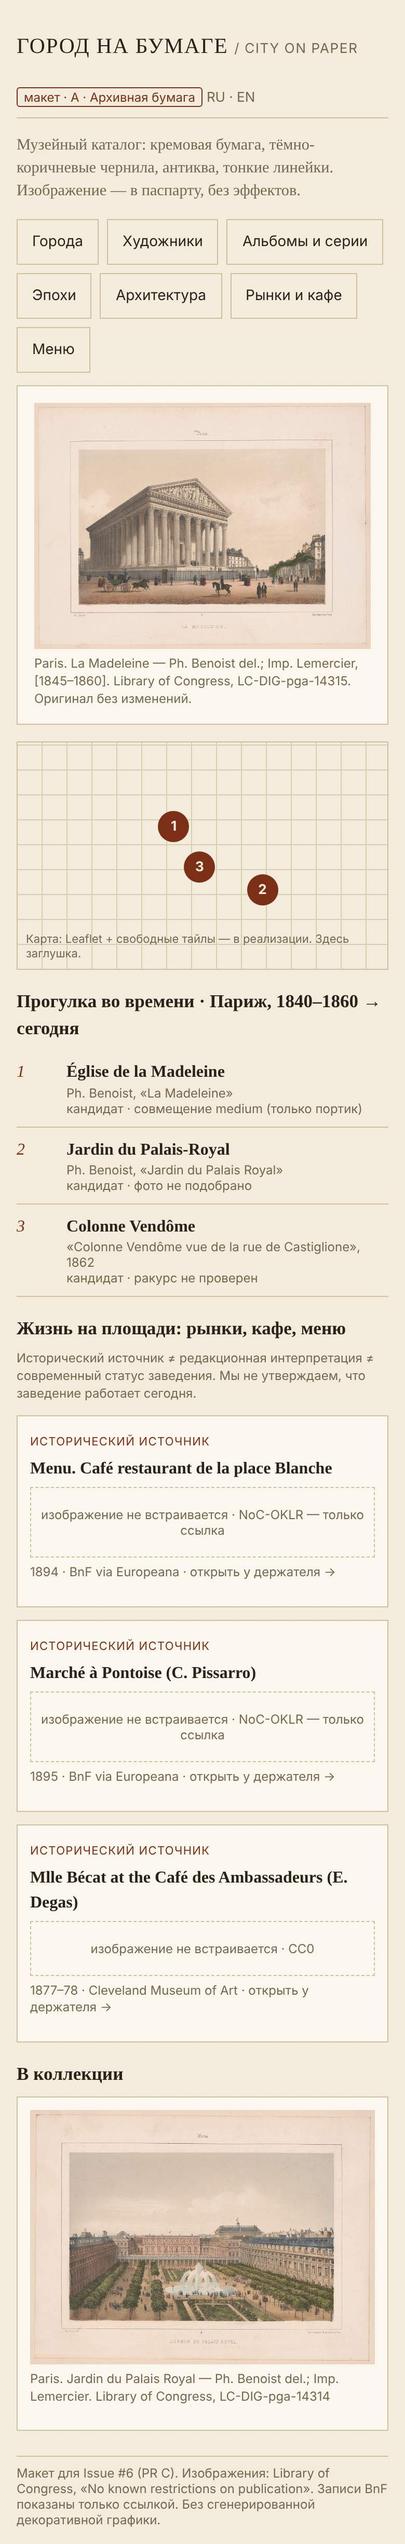
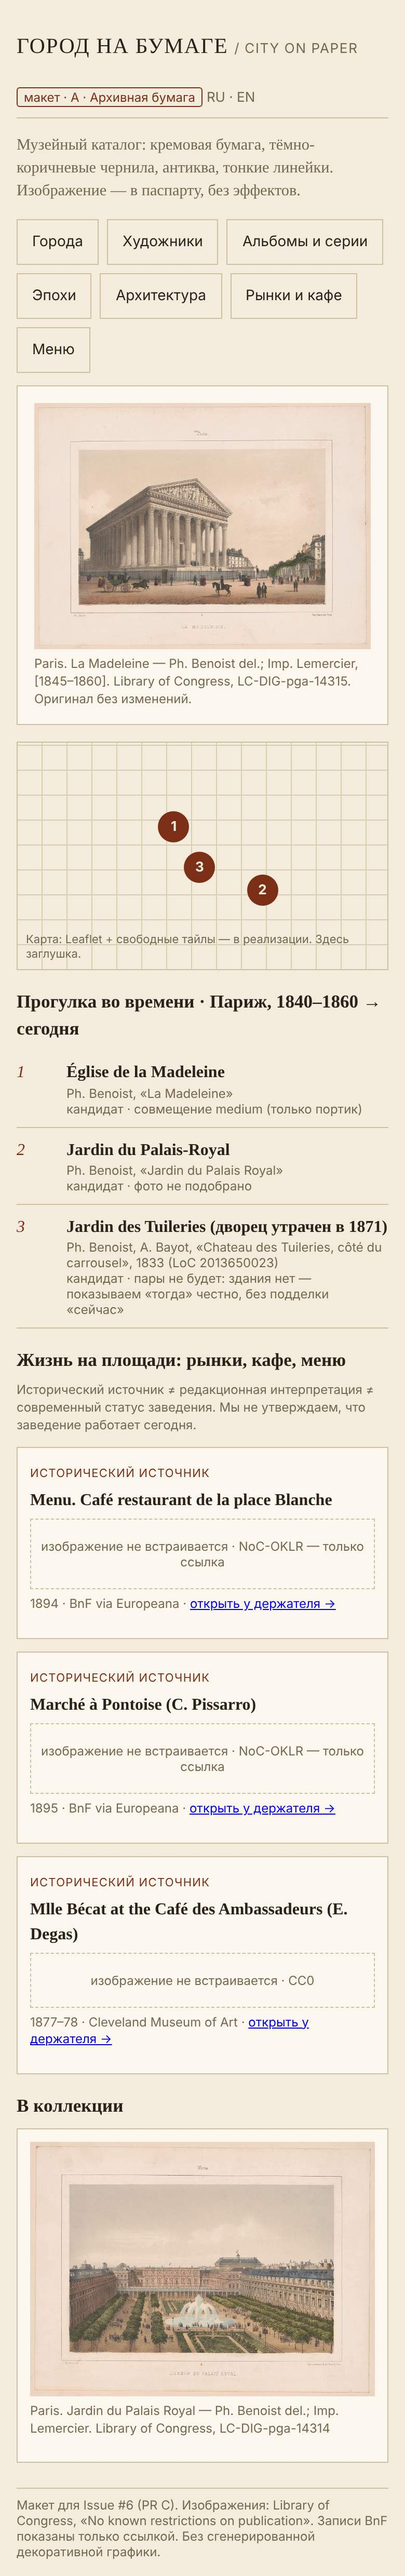
Fix review findings in mockups: replace unsourced walk stop, real holder links, facet group role
- stop 3 now uses LoC 2013650023 (Ph. Benoist & A. Bayot, Tuileries,
  1833) and states that no "now" pair is possible (palace lost 1871)
- food cards link to the holding institution records
- role="list" without listitems -> role="group" with a label

Claude-Session: https://claude.ai/code/session_01LdHt8Et5Uy4nRGp7UuZQir

diff --git a/docs/ux/mockups/a-archive.html b/docs/ux/mockups/a-archive.html
@@ -37,15 +37,15 @@ h1{font-weight:normal;letter-spacing:.04em;text-transform:uppercase;font-size:1.
 </style></head><body><div class="wrap">
 <header><h1>Город на бумаге <span class="lang">/ City on Paper</span></h1><span><span class="mock">макет · A · Архивная бумага</span> <span class="lang">RU · EN</span></span></header>
 <p class="pitch">Музейный каталог: кремовая бумага, тёмно-коричневые чернила, антиква, тонкие линейки. Изображение — в паспарту, без эффектов.</p>
-<div class="chips" role="list"><button class="chip">Города</button><button class="chip">Художники</button><button class="chip">Альбомы и серии</button><button class="chip">Эпохи</button><button class="chip">Архитектура</button><button class="chip">Рынки и кафе</button><button class="chip">Меню</button></div>
+<div class="chips" role="group" aria-label="Фасеты"><button class="chip">Города</button><button class="chip">Художники</button><button class="chip">Альбомы и серии</button><button class="chip">Эпохи</button><button class="chip">Архитектура</button><button class="chip">Рынки и кафе</button><button class="chip">Меню</button></div>
 <div class="layout">
  <section class="hero"><figure><img src="assets/loc-pga14315v.jpg" alt="Hand-coloured lithograph of the Madeleine church in Paris seen from the south-west, with carriages"><figcaption>Paris. La Madeleine — Ph. Benoist del.; Imp. Lemercier, [1845–1860]. Library of Congress, LC-DIG-pga-14315. Оригинал без изменений.</figcaption></figure></section>
  <section class="map" aria-label="Схема карты (заглушка, без тайлов)">
   <span class="pin" style="left:38%;top:30%">1</span><span class="pin" style="left:62%;top:58%">2</span><span class="pin" style="left:45%;top:48%">3</span>
   <span class="note">Карта: Leaflet + свободные тайлы — в реализации. Здесь заглушка.</span></section>
 </div>
-<h2>Прогулка во времени · Париж, 1840–1860 → сегодня</h2><div class="stop"><span class="n">1</span><div><strong>Église de la Madeleine</strong><small>Ph. Benoist, «La Madeleine»</small><small>кандидат · совмещение medium (только портик)</small></div></div><div class="stop"><span class="n">2</span><div><strong>Jardin du Palais-Royal</strong><small>Ph. Benoist, «Jardin du Palais Royal»</small><small>кандидат · фото не подобрано</small></div></div><div class="stop"><span class="n">3</span><div><strong>Colonne Vendôme</strong><small>«Colonne Vendôme vue de la rue de Castiglione», 1862</small><small>кандидат · ракурс не проверен</small></div></div>
-<section class="food"><h2>Жизнь на площади: рынки, кафе, меню</h2><p class="credit">Исторический источник ≠ редакционная интерпретация ≠ современный статус заведения. Мы не утверждаем, что заведение работает сегодня.</p><div class="grid"><article class="card"><span class="tag">исторический источник</span><h3 style="font-size:1rem;margin:4px 0">Menu. Café restaurant de la place Blanche</h3><div class="nolink">изображение не встраивается · NoC-OKLR — только ссылка</div><p class="credit">1894 · BnF via Europeana · открыть у держателя →</p></article><article class="card"><span class="tag">исторический источник</span><h3 style="font-size:1rem;margin:4px 0">Marché à Pontoise (C. Pissarro)</h3><div class="nolink">изображение не встраивается · NoC-OKLR — только ссылка</div><p class="credit">1895 · BnF via Europeana · открыть у держателя →</p></article><article class="card"><span class="tag">исторический источник</span><h3 style="font-size:1rem;margin:4px 0">Mlle Bécat at the Café des Ambassadeurs (E. Degas)</h3><div class="nolink">изображение не встраивается · CC0</div><p class="credit">1877–78 · Cleveland Museum of Art · открыть у держателя →</p></article></div></section>
+<h2>Прогулка во времени · Париж, 1840–1860 → сегодня</h2><div class="stop"><span class="n">1</span><div><strong>Église de la Madeleine</strong><small>Ph. Benoist, «La Madeleine»</small><small>кандидат · совмещение medium (только портик)</small></div></div><div class="stop"><span class="n">2</span><div><strong>Jardin du Palais-Royal</strong><small>Ph. Benoist, «Jardin du Palais Royal»</small><small>кандидат · фото не подобрано</small></div></div><div class="stop"><span class="n">3</span><div><strong>Jardin des Tuileries (дворец утрачен в 1871)</strong><small>Ph. Benoist, A. Bayot, «Chateau des Tuileries, côté du carrousel», 1833 (LoC 2013650023)</small><small>кандидат · пары не будет: здания нет — показываем «тогда» честно, без подделки «сейчас»</small></div></div>
+<section class="food"><h2>Жизнь на площади: рынки, кафе, меню</h2><p class="credit">Исторический источник ≠ редакционная интерпретация ≠ современный статус заведения. Мы не утверждаем, что заведение работает сегодня.</p><div class="grid"><article class="card"><span class="tag">исторический источник</span><h3 style="font-size:1rem;margin:4px 0">Menu. Café restaurant de la place Blanche</h3><div class="nolink">изображение не встраивается · NoC-OKLR — только ссылка</div><p class="credit">1894 · BnF via Europeana · <a href="https://www.europeana.eu/item/9200518/ark__12148_btv1b10524412v" rel="noopener">открыть у держателя →</a></p></article><article class="card"><span class="tag">исторический источник</span><h3 style="font-size:1rem;margin:4px 0">Marché à Pontoise (C. Pissarro)</h3><div class="nolink">изображение не встраивается · NoC-OKLR — только ссылка</div><p class="credit">1895 · BnF via Europeana · <a href="https://www.europeana.eu/item/9200518/ark__12148_btv1b69552845" rel="noopener">открыть у держателя →</a></p></article><article class="card"><span class="tag">исторический источник</span><h3 style="font-size:1rem;margin:4px 0">Mlle Bécat at the Café des Ambassadeurs (E. Degas)</h3><div class="nolink">изображение не встраивается · CC0</div><p class="credit">1877–78 · Cleveland Museum of Art · <a href="https://www.clevelandart.org/art/2007.194" rel="noopener">открыть у держателя →</a></p></article></div></section>
 <h2>В коллекции</h2><div class="grid"><article class="card"><img src="assets/loc-pga14314v.jpg" alt="Lithograph of the Palais-Royal garden with strolling figures and arcades"><p class="credit">Paris. Jardin du Palais Royal — Ph. Benoist del.; Imp. Lemercier. Library of Congress, LC-DIG-pga-14314</p></article></div>
 <footer>Макет для Issue #6 (PR C). Изображения: Library of Congress, «No known restrictions on publication». Записи BnF показаны только ссылкой. Без сгенерированной декоративной графики.</footer>
 </div></body></html>

diff --git a/docs/ux/mockups/c-journal.html b/docs/ux/mockups/c-journal.html
@@ -37,14 +37,14 @@ h1{font-size:2rem;line-height:1.1;font-style:italic}
 </style></head><body><div class="wrap">
 <header><h1>Город на бумаге <span class="lang">/ City on Paper</span></h1><span><span class="mock">макет · C · Путевой дневник и кухня</span> <span class="lang">RU · EN</span></span></header>
 <p class="pitch">Редакционный журнал: крупные заголовки, тёплые акценты, рубрика «Жизнь на площади» (рынки, кафе, меню) на первом экране.</p>
-<div class="chips" role="list"><button class="chip">Города</button><button class="chip">Художники</button><button class="chip">Альбомы и серии</button><button class="chip">Эпохи</button><button class="chip">Архитектура</button><button class="chip">Рынки и кафе</button><button class="chip">Меню</button></div>
-<section class="food"><h2>Жизнь на площади: рынки, кафе, меню</h2><p class="credit">Исторический источник ≠ редакционная интерпретация ≠ современный статус заведения. Мы не утверждаем, что заведение работает сегодня.</p><div class="grid"><article class="card"><span class="tag">исторический источник</span><h3 style="font-size:1rem;margin:4px 0">Menu. Café restaurant de la place Blanche</h3><div class="nolink">изображение не встраивается · NoC-OKLR — только ссылка</div><p class="credit">1894 · BnF via Europeana · открыть у держателя →</p></article><article class="card"><span class="tag">исторический источник</span><h3 style="font-size:1rem;margin:4px 0">Marché à Pontoise (C. Pissarro)</h3><div class="nolink">изображение не встраивается · NoC-OKLR — только ссылка</div><p class="credit">1895 · BnF via Europeana · открыть у держателя →</p></article><article class="card"><span class="tag">исторический источник</span><h3 style="font-size:1rem;margin:4px 0">Mlle Bécat at the Café des Ambassadeurs (E. Degas)</h3><div class="nolink">изображение не встраивается · CC0</div><p class="credit">1877–78 · Cleveland Museum of Art · открыть у держателя →</p></article></div></section><div class="layout">
+<div class="chips" role="group" aria-label="Фасеты"><button class="chip">Города</button><button class="chip">Художники</button><button class="chip">Альбомы и серии</button><button class="chip">Эпохи</button><button class="chip">Архитектура</button><button class="chip">Рынки и кафе</button><button class="chip">Меню</button></div>
+<section class="food"><h2>Жизнь на площади: рынки, кафе, меню</h2><p class="credit">Исторический источник ≠ редакционная интерпретация ≠ современный статус заведения. Мы не утверждаем, что заведение работает сегодня.</p><div class="grid"><article class="card"><span class="tag">исторический источник</span><h3 style="font-size:1rem;margin:4px 0">Menu. Café restaurant de la place Blanche</h3><div class="nolink">изображение не встраивается · NoC-OKLR — только ссылка</div><p class="credit">1894 · BnF via Europeana · <a href="https://www.europeana.eu/item/9200518/ark__12148_btv1b10524412v" rel="noopener">открыть у держателя →</a></p></article><article class="card"><span class="tag">исторический источник</span><h3 style="font-size:1rem;margin:4px 0">Marché à Pontoise (C. Pissarro)</h3><div class="nolink">изображение не встраивается · NoC-OKLR — только ссылка</div><p class="credit">1895 · BnF via Europeana · <a href="https://www.europeana.eu/item/9200518/ark__12148_btv1b69552845" rel="noopener">открыть у держателя →</a></p></article><article class="card"><span class="tag">исторический источник</span><h3 style="font-size:1rem;margin:4px 0">Mlle Bécat at the Café des Ambassadeurs (E. Degas)</h3><div class="nolink">изображение не встраивается · CC0</div><p class="credit">1877–78 · Cleveland Museum of Art · <a href="https://www.clevelandart.org/art/2007.194" rel="noopener">открыть у держателя →</a></p></article></div></section><div class="layout">
  <section class="hero"><figure><img src="assets/loc-pga14315v.jpg" alt="Hand-coloured lithograph of the Madeleine church in Paris seen from the south-west, with carriages"><figcaption>Paris. La Madeleine — Ph. Benoist del.; Imp. Lemercier, [1845–1860]. Library of Congress, LC-DIG-pga-14315. Оригинал без изменений.</figcaption></figure></section>
  <section class="map" aria-label="Схема карты (заглушка, без тайлов)">
   <span class="pin" style="left:38%;top:30%">1</span><span class="pin" style="left:62%;top:58%">2</span><span class="pin" style="left:45%;top:48%">3</span>
   <span class="note">Карта: Leaflet + свободные тайлы — в реализации. Здесь заглушка.</span></section>
 </div>
-<h2>Прогулка во времени · Париж, 1840–1860 → сегодня</h2><div class="stop"><span class="n">1</span><div><strong>Église de la Madeleine</strong><small>Ph. Benoist, «La Madeleine»</small><small>кандидат · совмещение medium (только портик)</small></div></div><div class="stop"><span class="n">2</span><div><strong>Jardin du Palais-Royal</strong><small>Ph. Benoist, «Jardin du Palais Royal»</small><small>кандидат · фото не подобрано</small></div></div><div class="stop"><span class="n">3</span><div><strong>Colonne Vendôme</strong><small>«Colonne Vendôme vue de la rue de Castiglione», 1862</small><small>кандидат · ракурс не проверен</small></div></div>
+<h2>Прогулка во времени · Париж, 1840–1860 → сегодня</h2><div class="stop"><span class="n">1</span><div><strong>Église de la Madeleine</strong><small>Ph. Benoist, «La Madeleine»</small><small>кандидат · совмещение medium (только портик)</small></div></div><div class="stop"><span class="n">2</span><div><strong>Jardin du Palais-Royal</strong><small>Ph. Benoist, «Jardin du Palais Royal»</small><small>кандидат · фото не подобрано</small></div></div><div class="stop"><span class="n">3</span><div><strong>Jardin des Tuileries (дворец утрачен в 1871)</strong><small>Ph. Benoist, A. Bayot, «Chateau des Tuileries, côté du carrousel», 1833 (LoC 2013650023)</small><small>кандидат · пары не будет: здания нет — показываем «тогда» честно, без подделки «сейчас»</small></div></div>
 
 <h2>В коллекции</h2><div class="grid"><article class="card"><img src="assets/loc-pga14314v.jpg" alt="Lithograph of the Palais-Royal garden with strolling figures and arcades"><p class="credit">Paris. Jardin du Palais Royal — Ph. Benoist del.; Imp. Lemercier. Library of Congress, LC-DIG-pga-14314</p></article></div>
 <footer>Макет для Issue #6 (PR C). Изображения: Library of Congress, «No known restrictions on publication». Записи BnF показаны только ссылкой. Без сгенерированной декоративной графики.</footer>

diff --git a/docs/ux/mockups/b-atlas.html b/docs/ux/mockups/b-atlas.html
@@ -39,15 +39,15 @@ h1{font-weight:700;font-size:1.4rem}
 </style></head><body><div class="wrap">
 <header><h1>Город на бумаге <span class="lang">/ City on Paper</span></h1><span><span class="mock">макет · B · Ночной атлас</span> <span class="lang">RU · EN</span></span></header>
 <p class="pitch">Карта прежде всего, тёмная тема, гротеск. Сценарий спутника путешественника: маршрут, точки съёмки, расстояния.</p>
-<div class="chips" role="list"><button class="chip">Города</button><button class="chip">Художники</button><button class="chip">Альбомы и серии</button><button class="chip">Эпохи</button><button class="chip">Архитектура</button><button class="chip">Рынки и кафе</button><button class="chip">Меню</button></div>
+<div class="chips" role="group" aria-label="Фасеты"><button class="chip">Города</button><button class="chip">Художники</button><button class="chip">Альбомы и серии</button><button class="chip">Эпохи</button><button class="chip">Архитектура</button><button class="chip">Рынки и кафе</button><button class="chip">Меню</button></div>
 <div class="layout">
  <section class="hero"><figure><img src="assets/loc-pga14315v.jpg" alt="Hand-coloured lithograph of the Madeleine church in Paris seen from the south-west, with carriages"><figcaption>Paris. La Madeleine — Ph. Benoist del.; Imp. Lemercier, [1845–1860]. Library of Congress, LC-DIG-pga-14315. Оригинал без изменений.</figcaption></figure></section>
  <section class="map" aria-label="Схема карты (заглушка, без тайлов)">
   <span class="pin" style="left:38%;top:30%">1</span><span class="pin" style="left:62%;top:58%">2</span><span class="pin" style="left:45%;top:48%">3</span>
   <span class="note">Карта: Leaflet + свободные тайлы — в реализации. Здесь заглушка.</span></section>
 </div>
-<h2>Прогулка во времени · Париж, 1840–1860 → сегодня</h2><div class="stop"><span class="n">1</span><div><strong>Église de la Madeleine</strong><small>Ph. Benoist, «La Madeleine»</small><small>кандидат · совмещение medium (только портик)</small></div></div><div class="stop"><span class="n">2</span><div><strong>Jardin du Palais-Royal</strong><small>Ph. Benoist, «Jardin du Palais Royal»</small><small>кандидат · фото не подобрано</small></div></div><div class="stop"><span class="n">3</span><div><strong>Colonne Vendôme</strong><small>«Colonne Vendôme vue de la rue de Castiglione», 1862</small><small>кандидат · ракурс не проверен</small></div></div>
-<section class="food"><h2>Жизнь на площади: рынки, кафе, меню</h2><p class="credit">Исторический источник ≠ редакционная интерпретация ≠ современный статус заведения. Мы не утверждаем, что заведение работает сегодня.</p><div class="grid"><article class="card"><span class="tag">исторический источник</span><h3 style="font-size:1rem;margin:4px 0">Menu. Café restaurant de la place Blanche</h3><div class="nolink">изображение не встраивается · NoC-OKLR — только ссылка</div><p class="credit">1894 · BnF via Europeana · открыть у держателя →</p></article><article class="card"><span class="tag">исторический источник</span><h3 style="font-size:1rem;margin:4px 0">Marché à Pontoise (C. Pissarro)</h3><div class="nolink">изображение не встраивается · NoC-OKLR — только ссылка</div><p class="credit">1895 · BnF via Europeana · открыть у держателя →</p></article><article class="card"><span class="tag">исторический источник</span><h3 style="font-size:1rem;margin:4px 0">Mlle Bécat at the Café des Ambassadeurs (E. Degas)</h3><div class="nolink">изображение не встраивается · CC0</div><p class="credit">1877–78 · Cleveland Museum of Art · открыть у держателя →</p></article></div></section>
+<h2>Прогулка во времени · Париж, 1840–1860 → сегодня</h2><div class="stop"><span class="n">1</span><div><strong>Église de la Madeleine</strong><small>Ph. Benoist, «La Madeleine»</small><small>кандидат · совмещение medium (только портик)</small></div></div><div class="stop"><span class="n">2</span><div><strong>Jardin du Palais-Royal</strong><small>Ph. Benoist, «Jardin du Palais Royal»</small><small>кандидат · фото не подобрано</small></div></div><div class="stop"><span class="n">3</span><div><strong>Jardin des Tuileries (дворец утрачен в 1871)</strong><small>Ph. Benoist, A. Bayot, «Chateau des Tuileries, côté du carrousel», 1833 (LoC 2013650023)</small><small>кандидат · пары не будет: здания нет — показываем «тогда» честно, без подделки «сейчас»</small></div></div>
+<section class="food"><h2>Жизнь на площади: рынки, кафе, меню</h2><p class="credit">Исторический источник ≠ редакционная интерпретация ≠ современный статус заведения. Мы не утверждаем, что заведение работает сегодня.</p><div class="grid"><article class="card"><span class="tag">исторический источник</span><h3 style="font-size:1rem;margin:4px 0">Menu. Café restaurant de la place Blanche</h3><div class="nolink">изображение не встраивается · NoC-OKLR — только ссылка</div><p class="credit">1894 · BnF via Europeana · <a href="https://www.europeana.eu/item/9200518/ark__12148_btv1b10524412v" rel="noopener">открыть у держателя →</a></p></article><article class="card"><span class="tag">исторический источник</span><h3 style="font-size:1rem;margin:4px 0">Marché à Pontoise (C. Pissarro)</h3><div class="nolink">изображение не встраивается · NoC-OKLR — только ссылка</div><p class="credit">1895 · BnF via Europeana · <a href="https://www.europeana.eu/item/9200518/ark__12148_btv1b69552845" rel="noopener">открыть у держателя →</a></p></article><article class="card"><span class="tag">исторический источник</span><h3 style="font-size:1rem;margin:4px 0">Mlle Bécat at the Café des Ambassadeurs (E. Degas)</h3><div class="nolink">изображение не встраивается · CC0</div><p class="credit">1877–78 · Cleveland Museum of Art · <a href="https://www.clevelandart.org/art/2007.194" rel="noopener">открыть у держателя →</a></p></article></div></section>
 <h2>В коллекции</h2><div class="grid"><article class="card"><img src="assets/loc-pga14314v.jpg" alt="Lithograph of the Palais-Royal garden with strolling figures and arcades"><p class="credit">Paris. Jardin du Palais Royal — Ph. Benoist del.; Imp. Lemercier. Library of Congress, LC-DIG-pga-14314</p></article></div>
 <footer>Макет для Issue #6 (PR C). Изображения: Library of Congress, «No known restrictions on publication». Записи BnF показаны только ссылкой. Без сгенерированной декоративной графики.</footer>
 </div></body></html>

diff --git a/docs/ux/mockups/build.py b/docs/ux/mockups/build.py
@@ -18,17 +18,22 @@ CONTENT = {
     "walk": [
         {"n": 1, "place": "Église de la Madeleine", "work": "Ph. Benoist, «La Madeleine»", "status": "кандидат · совмещение medium (только портик)"},
         {"n": 2, "place": "Jardin du Palais-Royal", "work": "Ph. Benoist, «Jardin du Palais Royal»", "status": "кандидат · фото не подобрано"},
-        {"n": 3, "place": "Colonne Vendôme", "work": "«Colonne Vendôme vue de la rue de Castiglione», 1862", "status": "кандидат · ракурс не проверен"},
+        {"n": 3, "place": "Jardin des Tuileries (дворец утрачен в 1871)",
+         "work": "Ph. Benoist, A. Bayot, «Chateau des Tuileries, côté du carrousel», 1833 (LoC 2013650023)",
+         "status": "кандидат · пары не будет: здания нет — показываем «тогда» честно, без подделки «сейчас»"},
     ],
     "card2": {"img": "assets/loc-pga14314v.jpg", "title": "Paris. Jardin du Palais Royal",
               "credit": "Ph. Benoist del.; Imp. Lemercier. Library of Congress, LC-DIG-pga-14314",
               "alt": "Lithograph of the Palais-Royal garden with strolling figures and arcades"},
     "food": [
         {"title": "Menu. Café restaurant de la place Blanche", "date": "1894", "inst": "BnF via Europeana",
+         "url": "https://www.europeana.eu/item/9200518/ark__12148_btv1b10524412v",
          "rights": "NoC-OKLR — только ссылка", "kind": "исторический источник"},
         {"title": "Marché à Pontoise (C. Pissarro)", "date": "1895", "inst": "BnF via Europeana",
+         "url": "https://www.europeana.eu/item/9200518/ark__12148_btv1b69552845",
          "rights": "NoC-OKLR — только ссылка", "kind": "исторический источник"},
         {"title": "Mlle Bécat at the Café des Ambassadeurs (E. Degas)", "date": "1877–78", "inst": "Cleveland Museum of Art",
+         "url": "https://www.clevelandart.org/art/2007.194",
          "rights": "CC0", "kind": "исторический источник"},
     ],
 }
@@ -111,7 +116,8 @@ def page(key: str, d: dict) -> str:
                     f'<small>{escape(s["work"])}</small><small>{escape(s["status"])}</small></div></div>' for s in c["walk"])
     food = "".join(f'<article class="card"><span class="tag">{escape(f["kind"])}</span><h3 style="font-size:1rem;margin:4px 0">'
                    f'{escape(f["title"])}</h3><div class="nolink">изображение не встраивается · {escape(f["rights"])}</div>'
-                   f'<p class="credit">{escape(f["date"])} · {escape(f["inst"])} · открыть у держателя →</p></article>'
+                   f'<p class="credit">{escape(f["date"])} · {escape(f["inst"])} · '
+                   f'<a href="{escape(f["url"])}" rel="noopener">открыть у держателя →</a></p></article>'
                    for f in c["food"])
     chips = "".join(f'<button class="chip">{escape(x)}</button>' for x in c["facets"])
     h, c2 = c["hero"], c["card2"]
@@ -124,7 +130,7 @@ def page(key: str, d: dict) -> str:
 <style>{BASE_CSS}{d['css']}</style></head><body><div class="wrap">
 <header><h1>Город на бумаге <span class="lang">/ City on Paper</span></h1><span><span class="mock">макет · {escape(d['name'])}</span> <span class="lang">RU · EN</span></span></header>
 <p class="pitch">{escape(d['pitch'])}</p>
-<div class="chips" role="list">{chips}</div>
+<div class="chips" role="group" aria-label="Фасеты">{chips}</div>
 {food_top}<div class="layout">
  <section class="hero"><figure><img src="{h['img']}" alt="{escape(h['alt'])}"><figcaption>{escape(h['title'])} — {escape(h['credit'])}. Оригинал без изменений.</figcaption></figure></section>
  <section class="map" aria-label="Схема карты (заглушка, без тайлов)">
